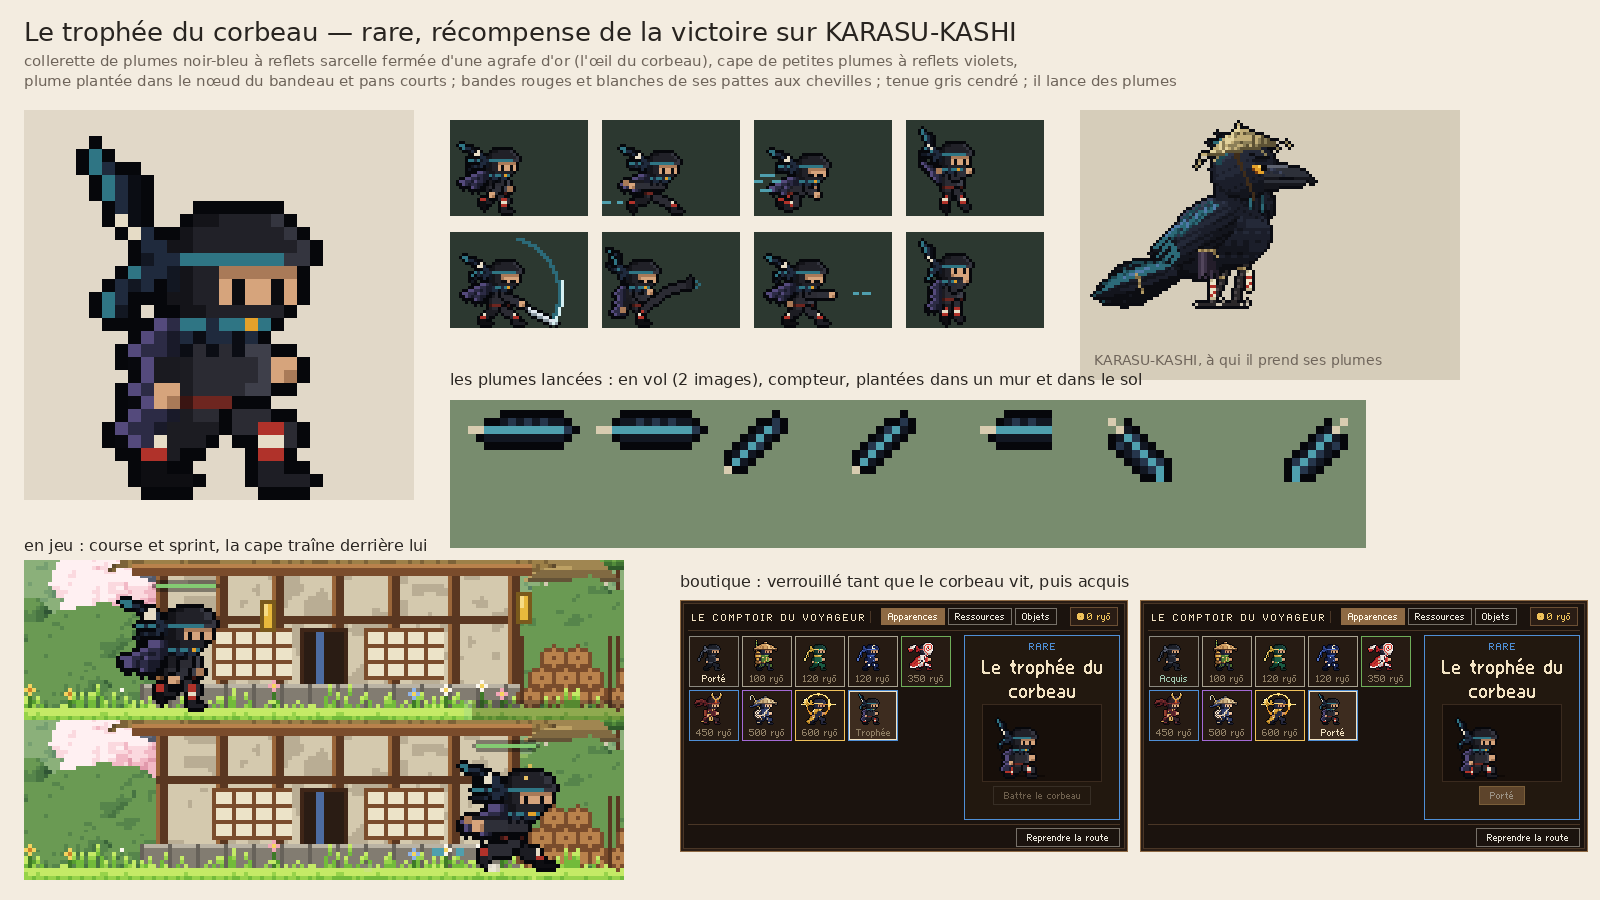
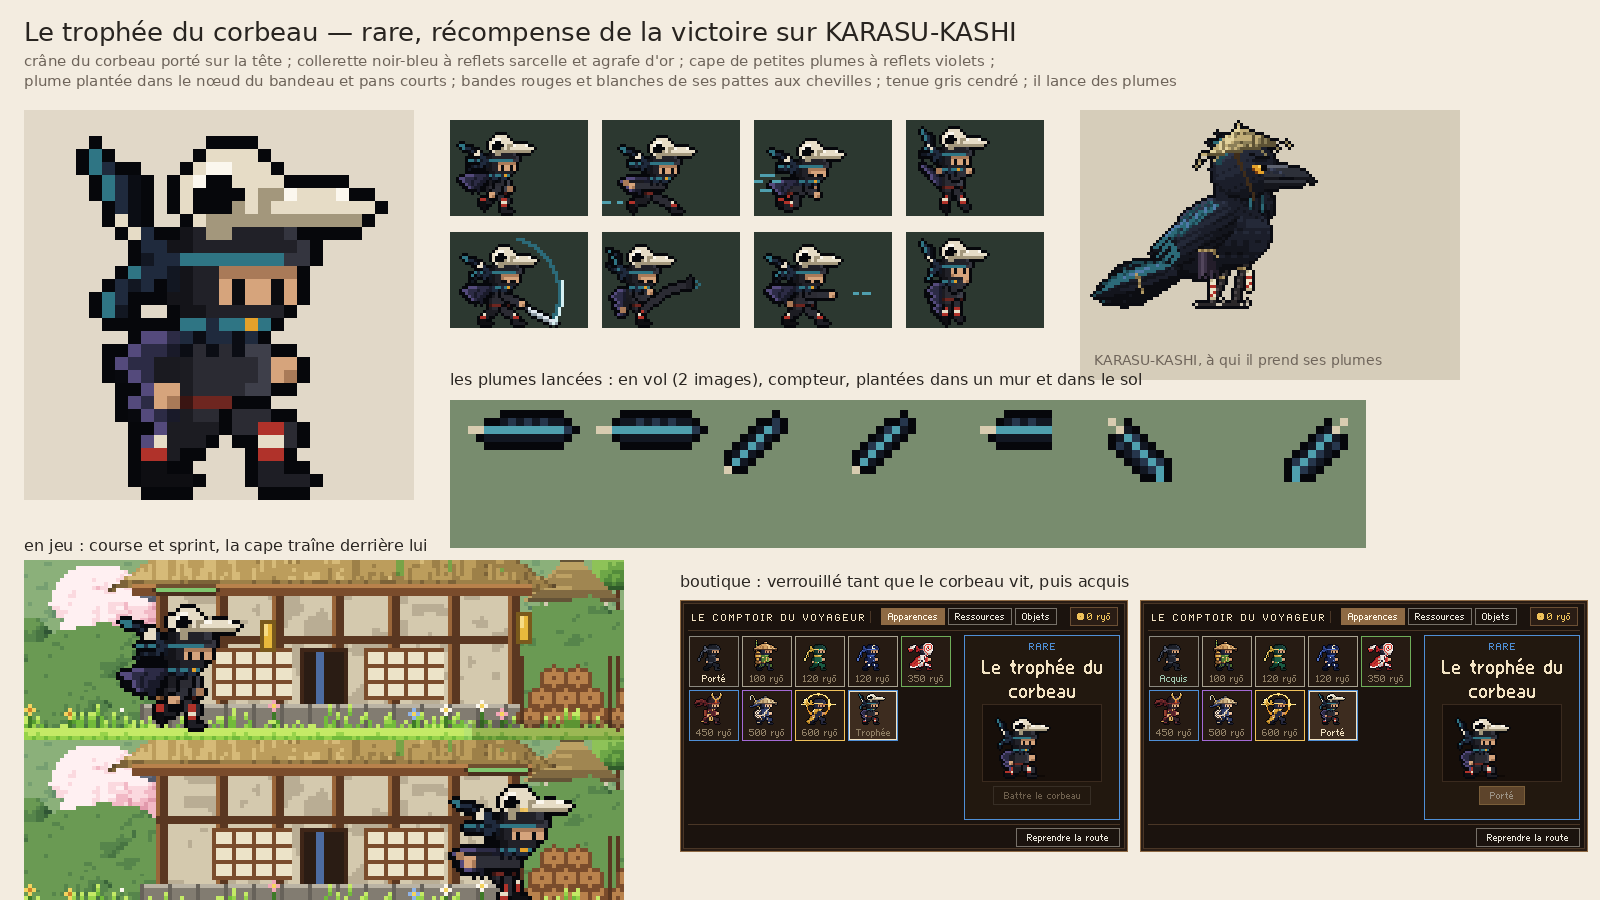
Trophée du corbeau : crâne de corbeau sur la tête, cape un peu plus basse et plus large en haut qu'en bas
Claude-Session: https://claude.ai/code/session_01A2iwx41GJ1yT1ZEu9VhwRg

diff --git a/tools/kage_forge/accessories.py b/tools/kage_forge/accessories.py
@@ -1745,21 +1745,21 @@ CROW_CAPE = {
     # au repos : calée contre le dos (chaque rangée finit sur le bord arrière de l'épaule), des épaules au haut
     # des cuisses ; trois rangs de plumes, chacun ressort d'un pixel et finit par une pointe sombre (le bord
     # dentelé), le reflet violet sur le haut de chaque rang
-    "calm": (9, [
+    "calm": (10, [
+        "..QQP",
+        ".QPPp",
+        "QPPPp",
+        "rQPPp",
+        "..QPp",
+        ".QPPp",
+        ".rQPp",
         "...QP",
         "..QPp",
-        ".QPPp",
-        ".rQPp",
-        "..QPp",
-        ".QPPp",
-        ".rQPp",
-        ".QPPp",
-        "QPPpp",
-        "rQPpp",
-        "r.r.p",
+        "..rQp",
+        "...rp",
     ]),
     # en chute : elle remonte derrière les épaules
-    "up": (6, [
+    "up": (7, [
         "r......",
         "QP.....",
         "rQPp...",
@@ -1779,15 +1779,15 @@ CROW_CAPE = {
 }
 # en course : accrochée à la nuque (derrière le col), elle traîne derrière lui en biais, plus lourde qu'une
 # étoffe (elle ne flotte pas à l'horizontale) ; le dessus lisse au reflet violet, le dessous en pointes.
-# (rangées calées à droite sur l'arrière du col ; la première rangée est celle du dessus du col, moins un)
+# (rangées calées à droite sur l'arrière du col ; la première rangée est celle du dessus du col) ; plus longue
+# en haut qu'en bas (demande de Raph)
 CROW_CAPE_RUN = [
-    "......QQPp",
-    "....QQPPpp",
-    "..QQPPpPpp",
-    "QQPPpQPPp.",
-    "rQPpPPpp..",
-    ".r.rQPp...",
-    "....r.r...",
+    "..QQQPPPPp",
+    "QQPPPpPPpp",
+    "rQPPpPPpp.",
+    ".rQPpPpp..",
+    "..rQPpp...",
+    "....r.p...",
 ]
 
 def _put(g, mask, x, y, c):
@@ -1817,7 +1817,7 @@ def crow_cape(g):
         ax = min(x for y, x in neck if y == ay)
         for j, row in enumerate(CROW_CAPE_RUN):
             for i, c in enumerate(row):
-                _put(g, mask, ax - len(row) + i, ay - 1 + j, c)
+                _put(g, mask, ax - len(row) + i, ay + j, c)
         _outline(g, mask)
         return g, True
     xs = _back_edge(g, hy + 11, hx, TORSO)
@@ -1836,7 +1836,47 @@ def crow_cape(g):
     return g, True
 
 
+
+# le crâne du corbeau, porté sur la tête comme un trophée (demande de Raph) : de profil, la boîte crânienne
+# arrondie posée sur le haut de la capuche, la grande orbite noire, le long bec droit qui avance au-dessus du
+# front et s'incline à peine à la pointe, la narine osseuse à sa base, la mâchoire fine dessous.
+# Os : u reflet, c os, j ombre ; O orbite.
+# (colonne, rangée de son coin haut gauche, par rapport à la tête)
+CROW_SKULL = """
+...cccc.........
+..cuuccc........
+.cuOOcccc.......
+.cOOOOcjjucccu..
+.cOOOjcjcccccccc
+..cjjjjjjjjjjjj.
+...jj...........
+"""
+CROW_SKULL_AT = (1, -4)
+
+
+def crow_skull(g):
+    pos = find_head(g)
+    if pos is None:
+        return g, False
+    hx, hy = pos
+    g = g.copy()
+    mask = np.zeros(g.shape, bool)
+    for j, row in enumerate(_rows(CROW_SKULL)):
+        for i, c in enumerate(row):
+            x, y = hx + CROW_SKULL_AT[0] + i, hy + CROW_SKULL_AT[1] + j
+            if c == "." or not (0 <= x < CW and 0 <= y < CH):
+                continue
+            # (sur la capuche et le vide ; jamais sur la lame, une main ou un bras levé)
+            if g[y, x] in BG or g[y, x] in "hHI":
+                g[y, x] = c
+                mask[y, x] = True
+    _outline(g, mask)
+    return g, True
+
+
 def accessory(name):
+    if name == "crow_skull":
+        return crow_skull
     if name == "crow_tails":
         return crow_tails
     if name == "crow_cape":
